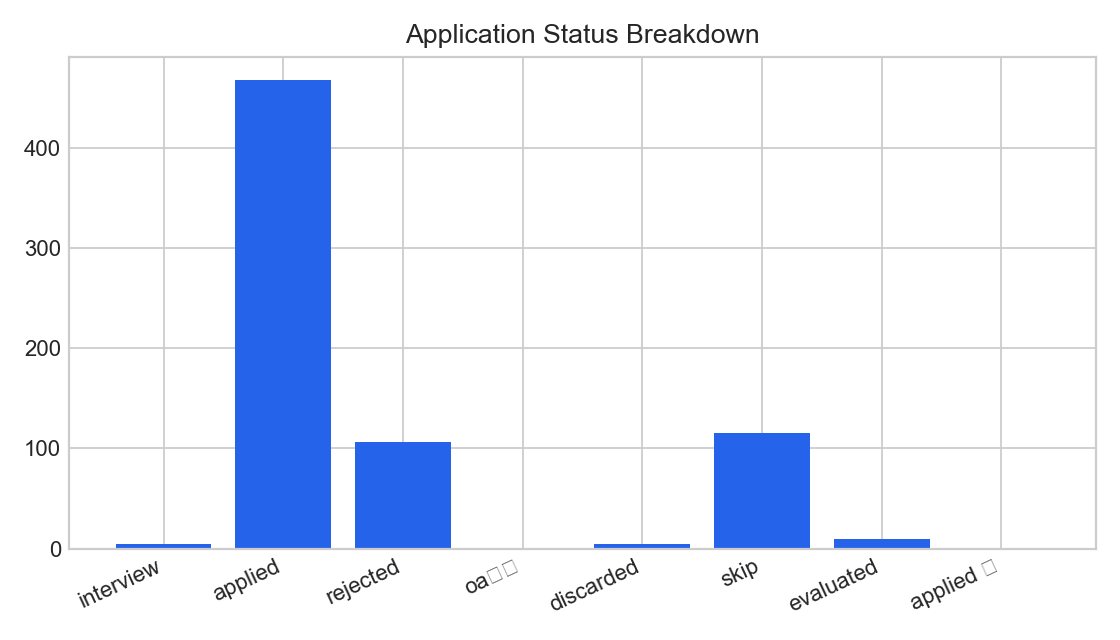
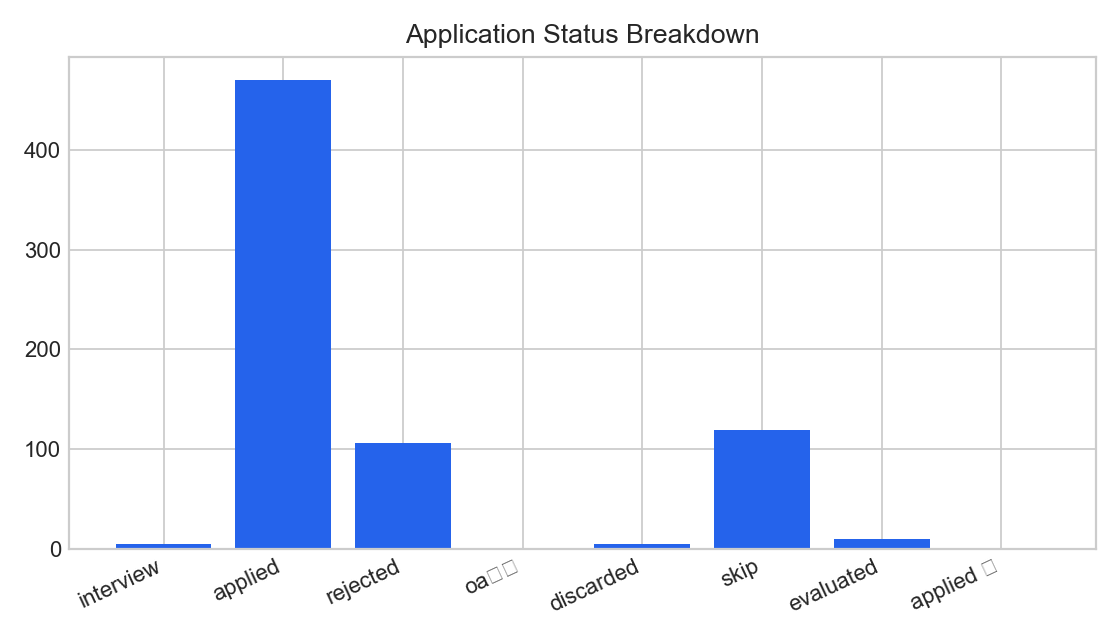
Refresh analytics: 868 merged roles (8/6 batch — 2 applied, 4 skip)

diff --git a/data/daily_summary.md b/data/daily_summary.md
@@ -1,6 +1,6 @@
 # Daily Job Search Summary
 
-_Last refreshed: 2026-08-05T23:54:42-07:00_
+_Last refreshed: 2026-08-06T23:45:30-07:00_
 
 ## Positioning
 
@@ -10,8 +10,8 @@ _Last refreshed: 2026-08-05T23:54:42-07:00_
 
 ## Snapshot
 
-- Tracked roles: 862
-- Active roles: 483
+- Tracked roles: 868
+- Active roles: 485
 - Response rate: 0.9%
 - LinkedIn outreach sent: 28
 - Pending pipeline items: 155
@@ -20,27 +20,27 @@ _Last refreshed: 2026-08-05T23:54:42-07:00_
 
 ## Status Breakdown
 
-- applied: 468
+- applied: 470
 - applied ✅: 1
 - discarded: 5
 - evaluated: 10
 - interview: 5
 - oa完成: 1
 - rejected: 106
-- skip: 115
+- skip: 119
 
 ## Recent Activity
 
+- 2026-08-06: Delta Air Lines | Analyst, Retailing and Reporting - Revenue Management | applied
+- 2026-08-06: UCLA Voting Rights Project | Research Data Analyst 1 | applied
+- 2026-08-06: Western Alliance Bank | Data Analyst (Analytics & Reporting) | skip
+- 2026-08-06: FloMed Infusion | Data Engineer Associate | skip
+- 2026-08-06: Monster Energy | Junior SAP Data Analyst | skip
+- 2026-08-06: R3 Continuum | Data Analyst I | skip
 - 2026-08-05: PSE | Associate Load Forecasting Analyst | applied
 - 2026-08-05: Thorlabs | Data Analyst I | applied
 - 2026-08-05: Applied Materials | Data Scientist - Agentic AI / ML | applied
 - 2026-08-05: Olé Mexican Foods | Data Analyst Jr. | applied
-- 2026-08-05: KlariVis | Junior Data Engineer | applied
-- 2026-08-05: Puget Sound Energy | Associate Load Forecasting Analyst | applied
-- 2026-08-05: Olé Mexican Foods | Business Intelligence Analyst (Data Analyst Jr.) | applied
-- 2026-08-05: Cursor (Anysphere) | Data Analyst, User Operations | skip
-- 2026-08-05: Everforth Apex (Apex Systems) | Data Analyst I, Asset Data Management | skip
-- 2026-08-05: FedPoint | Associate Data Analyst (FLTCIP BA & QA) | skip
 
 ## Recommended Opportunity Queue
 
@@ -62,13 +62,13 @@ _Last refreshed: 2026-08-05T23:54:42-07:00_
 
 ## Needs Attention
 
-- Microsoft | Applied Scientist: Microsoft AI Development Acceleration Program | 146 days with no response
-- Nvidia | Deep Learning Architect, LLM Inference - New College Grad 2026 | 146 days with no response
-- Google | Software Engineer II, Early Career | 142 days with no response
-- Apple | AIML - Machine Learning Research | 135 days with no response
-- Amazon | Data Engineer II | 133 days with no response
-- Amazon | Software Development Engineer – Amazon Leo (US) | 133 days with no response
-- Amazon | Software Development Engineer - 2026 (US) | 133 days with no response
-- Amazon | 软件开发工程师, (New graduate or Entry-level Engineer, 0-2 Years) | 133 days with no response
-- Esri | Product Test Engineer II - Feature Server | 133 days with no response
-- Esri | Product Engineer II - ArcGIS Enterprise Sharing API | 133 days with no response
+- Microsoft | Applied Scientist: Microsoft AI Development Acceleration Program | 147 days with no response
+- Nvidia | Deep Learning Architect, LLM Inference - New College Grad 2026 | 147 days with no response
+- Google | Software Engineer II, Early Career | 143 days with no response
+- Apple | AIML - Machine Learning Research | 136 days with no response
+- Amazon | Data Engineer II | 134 days with no response
+- Amazon | Software Development Engineer – Amazon Leo (US) | 134 days with no response
+- Amazon | Software Development Engineer - 2026 (US) | 134 days with no response
+- Amazon | 软件开发工程师, (New graduate or Entry-level Engineer, 0-2 Years) | 134 days with no response
+- Esri | Product Test Engineer II - Feature Server | 134 days with no response
+- Esri | Product Engineer II - ArcGIS Enterprise Sharing API | 134 days with no response
